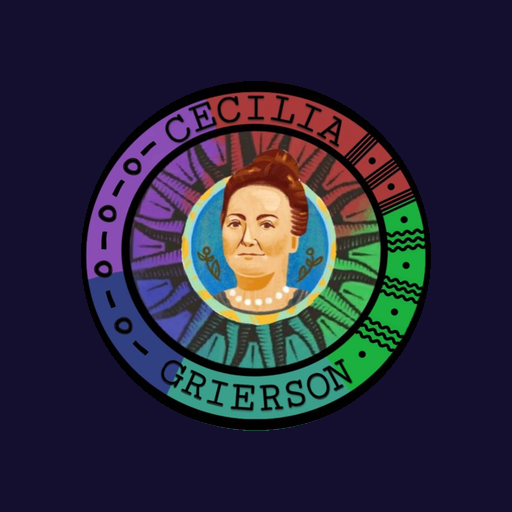
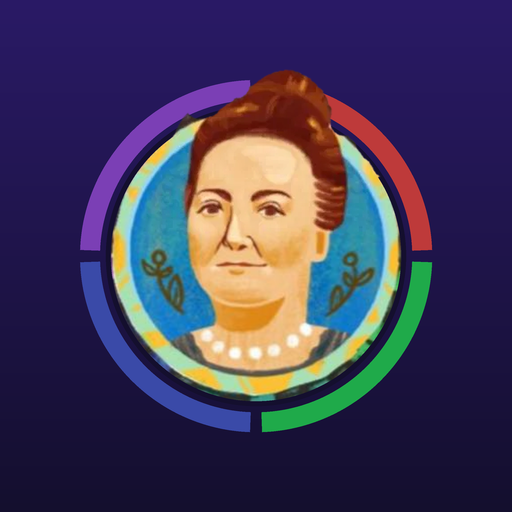
Add files via upload

diff --git a/index.html b/index.html
@@ -58,7 +58,7 @@ tailwind.config = { theme: { extend: {
 
 <!-- PANTALLA DE CARGA -->
 <section id="splash" class="min-h-screen flex flex-col items-center justify-center gap-4 p-6 text-center">
-  <img src="/icon-192.png" alt="" class="w-28 h-28 rounded-full" onerror="this.style.display='none'">
+  <img src="/logo-192.png" alt="" class="w-28 h-28" onerror="this.style.display='none'">
   <h1 class="text-3xl font-bold">Peña Chechu</h1>
   <div id="splashSpin" class="w-8 h-8 rounded-full border-4 border-white/20 border-t-ambar animate-spin"></div>
   <p id="splashMsg" class="text-slate-500 text-sm">Cargando…</p>
@@ -68,7 +68,7 @@ tailwind.config = { theme: { extend: {
 <!-- BLOQUEO (oculto hasta que el JS decida) -->
 <section id="lock" class="hidden min-h-screen flex items-center justify-center p-6">
   <div class="card w-full max-w-sm p-8">
-    <img src="/icon-192.png" alt="" class="w-20 h-20 rounded-full mb-3" onerror="this.style.display='none'">
+    <img src="/logo-192.png" alt="" class="w-20 h-20 mb-3" onerror="this.style.display='none'">
     <h1 class="text-4xl font-bold leading-none">Peña<br>Chechu</h1>
     <div class="bunting my-3 -mx-2"></div>
     <p class="text-slate-600 mb-5">Ingresá la clave del grupo.</p>
@@ -82,7 +82,7 @@ tailwind.config = { theme: { extend: {
 <div id="app" class="hidden">
   <header class="bg-[#0d0a22] text-white sticky top-0 z-30 pt-[env(safe-area-inset-top)]">
     <div class="max-w-2xl mx-auto px-4 py-5 flex items-center justify-between gap-2">
-      <span class="text-2xl font-bold flex items-center gap-2"><img src="/icon-192.png" alt="" class="w-9 h-9 rounded-full" onerror="this.style.display='none'">Peña Chechu</span>
+      <span class="text-2xl font-bold flex items-center gap-2"><img src="/logo-192.png" alt="" class="w-9 h-9" onerror="this.style.display='none'">Peña Chechu</span>
       <div class="flex items-center gap-2">
         <button id="sync" class="h-10 px-3 rounded-full text-sm font-bold"></button>
         <select id="year" class="h-10 rounded-full bg-white/15 text-white font-bold px-3 text-sm outline-none"></select>
@@ -270,7 +270,7 @@ tailwind.config = { theme: { extend: {
 <!-- TUTORIAL INSTALAR APP -->
 <div id="tuto" class="hidden fixed inset-0 z-[90] overflow-y-auto" style="background:#140f2e">
   <div class="max-w-md mx-auto px-5 pt-[calc(env(safe-area-inset-top)+1.5rem)] pb-[calc(env(safe-area-inset-bottom)+1.5rem)] space-y-4">
-    <img src="/icon-192.png" alt="" class="w-20 h-20 rounded-full mx-auto" onerror="this.style.display='none'">
+    <img src="/logo-192.png" alt="" class="w-20 h-20 mx-auto" onerror="this.style.display='none'">
     <h2 class="text-3xl font-bold text-center">Instalá la app</h2>
     <p class="text-slate-500 text-center text-sm">Se abre a pantalla completa, con su ícono propio, y funciona mejor y más rápido. Son 20 segundos.</p>
     <div id="tutoTabs" class="grid grid-cols-3 gap-2"></div>
